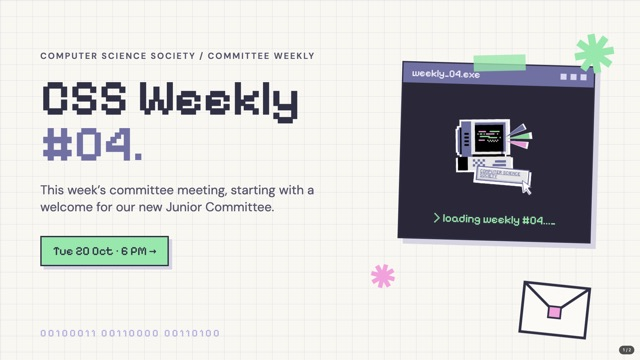
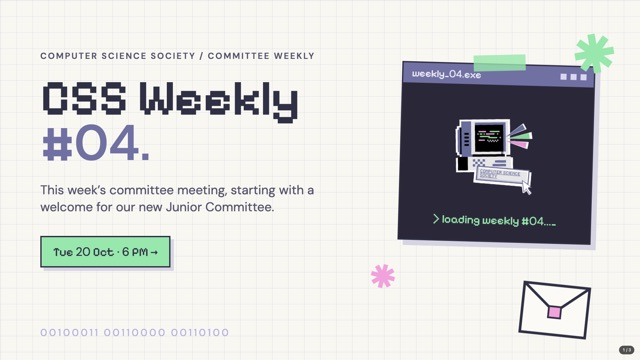
Add a CSS Jeopardy board as slide 3 of Weekly #04
Five categories (Computer Science, CSS, University of Nottingham, Tech & AI, Internet & Fun) by five tiers from Easy 100 to Expert 500. Clicking a square opens its question; Enter reveals the answer, 1-6 awards the points, 0 marks nobody and Esc goes back. Scores and used squares are saved in the browser. Digits in the #04 deck now use DM Sans so 200 and 500 don't read as 800.

diff --git a/weeklies/04-welcome-jc/index.html b/weeklies/04-welcome-jc/index.html
@@ -11,6 +11,9 @@
     @font-face{font-family:Pixelify;src:url('../../assets/fonts/pixelify-600.ttf') format('truetype');font-weight:600;font-display:swap}
     @font-face{font-family:DM;src:url('../../assets/fonts/dm-sans-400.ttf') format('truetype');font-weight:400;font-display:swap}
     @font-face{font-family:DM;src:url('../../assets/fonts/dm-sans-600.ttf') format('truetype');font-weight:600;font-display:swap}
+    /* Pixelify's digits are hard to read (2 looks like 8), so digits come from DM Sans, like the earlier decks. */
+    @font-face{font-family:ClearDigits;src:url('../../assets/fonts/dm-sans-400.ttf') format('truetype');font-weight:400;font-display:swap;unicode-range:U+0030-0039}
+    @font-face{font-family:ClearDigits;src:url('../../assets/fonts/dm-sans-600.ttf') format('truetype');font-weight:600;font-display:swap;unicode-range:U+0030-0039}
     :root{--paper:#f8f7f2;--card:#fbfaf6;--ink:#303044;--purple:#7070a2;--lavender:#b3aee0;--shadow:#d6d4e2;--screen:#2a2838;--mint:#98e7ad;--pink:#f1a1db;--muted:#55536a;--s:1;color-scheme:light}
     *{box-sizing:border-box}
     html,body{margin:0;width:100%;height:100%;overflow:hidden;background:#1d1c27}
@@ -18,15 +21,15 @@
     .stage{position:absolute;left:50%;top:50%;width:1920px;height:1080px;transform:translate(-50%,-50%) scale(var(--s))}
     .slide{position:absolute;inset:0;overflow:hidden;color:var(--ink);font:400 30px/1.4 DM,Arial,sans-serif;background-color:var(--paper);background-image:linear-gradient(rgba(112,112,162,.09) 2px,transparent 2px),linear-gradient(90deg,rgba(112,112,162,.09) 2px,transparent 2px);background-size:48px 48px}
     .slide[hidden]{display:none}
-    h1,h2{font-family:Pixelify,monospace;font-weight:600}
+    h1,h2{font-family:ClearDigits,Pixelify,monospace;font-weight:600}
     h1 em,h2 em{font-style:normal;color:var(--purple)}
     .eyebrow{font:600 28px DM,Arial,sans-serif;letter-spacing:5px;color:var(--purple)}
-    .footer{position:absolute;left:120px;right:120px;bottom:52px;display:flex;justify-content:space-between;font:400 24px Pixelify,monospace;letter-spacing:1px;color:var(--purple)}
-    .binary{position:absolute;left:120px;bottom:62px;font:400 30px Pixelify,monospace;letter-spacing:6px;color:var(--lavender)}
+    .footer{position:absolute;left:120px;right:120px;bottom:52px;display:flex;justify-content:space-between;font:400 24px ClearDigits,Pixelify,monospace;letter-spacing:1px;color:var(--purple)}
+    .binary{position:absolute;left:120px;bottom:62px;font:400 30px ClearDigits,Pixelify,monospace;letter-spacing:6px;color:var(--lavender)}
 
     /* Window chrome */
     .window{position:absolute;border:4px solid var(--ink);background:var(--screen);box-shadow:16px 16px 0 var(--shadow)}
-    .window-bar{display:flex;align-items:center;justify-content:space-between;height:60px;padding:0 22px 0 26px;background:var(--purple);color:#f2f0fb;font:400 30px Pixelify,monospace}
+    .window-bar{display:flex;align-items:center;justify-content:space-between;height:60px;padding:0 22px 0 26px;background:var(--purple);color:#f2f0fb;font:400 30px ClearDigits,Pixelify,monospace}
     .lights{display:flex;gap:12px}
     .lights i{display:block;width:18px;height:18px;background:#d9d6f2}
     .tape{position:absolute;top:-30px;width:156px;height:48px;background:rgba(152,231,173,.8);transform:rotate(-3deg);z-index:2}
@@ -52,13 +55,13 @@
     .cover-copy .eyebrow{font-size:26px;letter-spacing:4px;white-space:nowrap}
     .cover-copy h1{font-size:150px;line-height:.92;letter-spacing:-2px;margin:40px 0 44px}
     .cover-copy p{font-size:38px;line-height:1.35;color:var(--muted);max-width:900px}
-    .date-button{display:inline-block;margin-top:60px;padding:20px 34px;background:var(--mint);border:4px solid var(--ink);box-shadow:10px 10px 0 var(--shadow);font:400 36px Pixelify,monospace}
+    .date-button{display:inline-block;margin-top:60px;padding:20px 34px;background:var(--mint);border:4px solid var(--ink);box-shadow:10px 10px 0 var(--shadow);font:400 36px ClearDigits,Pixelify,monospace}
     .cover-window{left:1200px;top:190px;width:580px;transform:rotate(1.6deg)}
     .cover-window .tape{left:210px}
     .cover-window .body{display:flex;flex-direction:column;align-items:center;padding:20px 30px 40px}
     .cover-window img{display:block;width:440px;height:440px;margin:-40px 0 -36px;object-fit:contain;animation:float 4s ease-in-out infinite}
     @keyframes float{50%{transform:translateY(-10px) rotate(-1.5deg)}}
-    .cover-window .loading{font:400 34px Pixelify,monospace;color:var(--mint)}
+    .cover-window .loading{font:400 34px ClearDigits,Pixelify,monospace;color:var(--mint)}
     .cover-window .loading::after{content:"_";animation:blink 1s steps(1) infinite}
     @keyframes blink{50%{opacity:0}}
 
@@ -73,9 +76,46 @@
     .person .body{display:flex;flex-direction:column;align-items:center;padding:34px 20px 36px}
     .tile{display:grid;place-items:center;width:170px;height:170px;border:4px solid var(--ink);background:var(--c);box-shadow:8px 8px 0 var(--shadow);font:600 104px DM,Arial,sans-serif;line-height:1;color:var(--ink)}
     .person .name{margin-top:30px;font:600 56px DM,Arial,sans-serif;line-height:1;letter-spacing:-.5px;white-space:nowrap}
-    .person .tag{margin-top:14px;font:400 24px Pixelify,monospace;letter-spacing:2px;color:var(--purple)}
+    .person .tag{margin-top:14px;font:400 24px ClearDigits,Pixelify,monospace;letter-spacing:2px;color:var(--purple)}
     .bits{position:absolute;inset:0;pointer-events:none}
     .bits i{position:absolute;width:var(--z,18px);height:var(--z,18px);background:var(--c);box-shadow:4px 4px 0 var(--shadow)}
+
+    /* Slide 3: Jeopardy board */
+    .jp-head{position:absolute;left:120px;top:56px;right:120px;display:flex;align-items:flex-end;justify-content:space-between;gap:40px}
+    .jp-head h1{font-size:92px;line-height:1;margin-top:16px}
+    .jp-head .hint{font:400 24px ClearDigits,Pixelify,monospace;color:var(--purple);text-align:right}
+    .jp-board{position:absolute;left:120px;right:120px;top:240px;display:grid;grid-template-columns:170px repeat(5,1fr);grid-template-rows:96px repeat(5,104px);gap:14px}
+    .jp-cat{display:grid;place-items:center;padding:0 12px;border:4px solid var(--ink);background:var(--purple);box-shadow:8px 8px 0 var(--shadow);color:#f2f0fb;font:400 28px/1.1 ClearDigits,Pixelify,monospace;text-align:center}
+    .jp-tier{display:flex;flex-direction:column;justify-content:center;align-items:flex-end;padding-right:12px;font:400 26px/1.1 ClearDigits,Pixelify,monospace;color:var(--purple)}
+    .jp-tier b{font-weight:600;color:var(--ink);font-size:30px}
+    .jp-cell{border:4px solid var(--ink);background:var(--screen);box-shadow:8px 8px 0 var(--shadow);color:var(--mint);font:600 54px ClearDigits,Pixelify,monospace;cursor:pointer;transition:transform .12s,box-shadow .12s,background .12s}
+    .jp-cell:hover,.jp-cell:focus-visible{transform:translate(-3px,-3px);box-shadow:11px 11px 0 var(--shadow);background:#3a3750;outline:none}
+    .jp-cell.used{background:var(--card);color:var(--lavender);box-shadow:4px 4px 0 var(--shadow);text-decoration:line-through;text-decoration-thickness:4px}
+    .jp-scores{position:absolute;left:120px;right:120px;bottom:40px;display:flex;align-items:center;gap:16px}
+    .jp-team{display:flex;align-items:baseline;gap:14px;padding:10px 20px;border:4px solid var(--ink);background:var(--card);box-shadow:6px 6px 0 var(--shadow);font:400 26px ClearDigits,Pixelify,monospace}
+    .jp-team b{font-weight:600;font-size:34px;color:var(--purple)}
+    .jp-tool{margin-left:auto;display:flex;gap:12px}
+    .jp-tool button{padding:10px 18px;border:3px solid var(--ink);background:var(--card);box-shadow:5px 5px 0 var(--shadow);font:400 22px ClearDigits,Pixelify,monospace;color:var(--ink);cursor:pointer}
+        .jp-tool button:hover{background:var(--mint)}
+
+    .jp-card{position:absolute;inset:0;z-index:20;display:none;place-items:center;background:rgba(248,247,242,.82);backdrop-filter:blur(6px)}
+    .jp-card.open{display:grid}
+    .jp-card .window{position:relative;width:1480px;background:var(--card)}
+    .jp-card .body{padding:48px 64px 52px}
+    .jp-card .eyebrow{font-size:26px}
+    .jp-q{margin-top:26px;font:600 64px/1.2 DM,Arial,sans-serif;color:var(--ink);min-height:230px}
+    .jp-a{margin-top:28px;padding:22px 30px;border:4px solid var(--ink);background:var(--mint);box-shadow:8px 8px 0 var(--shadow);font:600 52px/1.2 DM,Arial,sans-serif;visibility:hidden}
+    .jp-card.revealed .jp-a{visibility:visible}
+    .jp-actions{margin-top:40px;display:flex;flex-wrap:wrap;align-items:center;gap:14px;font:400 26px ClearDigits,Pixelify,monospace;color:var(--purple)}
+    .jp-actions button{padding:14px 24px;border:4px solid var(--ink);background:var(--card);box-shadow:6px 6px 0 var(--shadow);font:400 28px ClearDigits,Pixelify,monospace;color:var(--ink);cursor:pointer}
+    .jp-actions button:hover{background:#e9e7f5}
+    .jp-actions .primary{background:var(--mint)}
+    .jp-actions .primary:hover{background:#b2efc2}
+    .jp-award{display:none;align-items:center;gap:14px;flex-wrap:wrap}
+    .jp-card.revealed .jp-award{display:flex}
+    .jp-card.revealed .jp-reveal{display:none}
+    .jp-back{margin-left:auto}
+    .jp-tool button:disabled{opacity:.4;cursor:default;background:var(--card)}
 
     .pager{position:fixed;right:16px;bottom:16px;padding:4px 10px;border-radius:999px;background:rgba(0,0,0,.7);color:#fff;font:12px/1.5 system-ui,sans-serif;font-variant-numeric:tabular-nums;opacity:0;transition:opacity .3s;pointer-events:none}
     .pager.on{opacity:1}
@@ -146,7 +186,34 @@
           <div class="body"><div class="tile" style="--c:#fbe7a6" aria-hidden="true">K</div><p class="name">Karon</p><p class="tag">JUNIOR COMMITTEE</p></div>
         </article>
       </div>
-      <div class="footer"><span>CSS / WEEKLY #04</span><span>02 / 02</span></div>
+      <div class="footer"><span>CSS / WEEKLY #04</span><span>02 / 03</span></div>
+    </section>
+
+    <section class="slide" aria-label="Slide 3: CSS Jeopardy" hidden>
+      <div class="jp-head">
+        <div>
+          <p class="eyebrow rise">GAME TIME / 5 CATEGORIES × 5 TIERS</p>
+          <h1 class="rise" style="--d:1">CSS <em>Jeopardy!</em></h1>
+        </div>
+        <p class="hint rise" style="--d:2">Pick a square · Enter shows the answer<br>1–6 gives the points · 0 if nobody · Esc goes back</p>
+      </div>
+      <div class="jp-board rise" style="--d:2" id="jp-board" data-no-nav></div>
+      <div class="jp-scores" id="jp-scores" data-no-nav></div>
+      <div class="jp-card" id="jp-card" role="dialog" aria-modal="true" aria-labelledby="jp-q" data-no-nav>
+        <div class="window">
+          <div class="window-bar"><span id="jp-file">question.exe</span><span class="lights" aria-hidden="true"><i></i><i></i><i></i></span></div>
+          <div class="body">
+            <p class="eyebrow" id="jp-meta"></p>
+            <p class="jp-q" id="jp-q"></p>
+            <p class="jp-a" id="jp-a"></p>
+            <div class="jp-actions">
+              <button class="primary jp-reveal" id="jp-reveal" type="button">Show answer (Enter)</button>
+              <div class="jp-award" id="jp-award"></div>
+              <button class="jp-back" id="jp-back" type="button">Back to board (Esc)</button>
+            </div>
+          </div>
+        </div>
+      </div>
     </section>
 
   </main>
@@ -201,7 +268,7 @@
         else if (k === 'p' || k === 'P') window.print();
       });
       document.addEventListener('click', function (e) {
-        if (e.button !== 0 || String(window.getSelection())) return;
+        if (e.button !== 0 || String(window.getSelection()) || e.target.closest('button, a, [data-no-nav]')) return;
         show(current + (e.clientX < window.innerWidth / 2 ? -1 : 1));
       });
       window.addEventListener('resize', fit);
@@ -213,6 +280,175 @@
       fit();
       var m = /^#(\d+)$/.exec(location.hash);
       show(m ? Number(m[1]) - 1 : 0);
+    })();
+  </script>
+  <script>
+    // CSS Jeopardy (slide 3): 5 categories × 5 tiers, team scores kept in this browser.
+    (function () {
+      var TIERS = [['Easy', 100], ['Medium', 200], ['Difficult', 300], ['Hard', 400], ['Expert', 500]];
+      var BOARD = [
+        { cat: 'Computer Science', qs: [
+          ['What does CPU stand for?', 'Central Processing Unit'],
+          ['What is 101 in binary, as a normal (decimal) number?', '5'],
+          ['Which data structure works “last in, first out”?', 'A stack'],
+          ['What is the time complexity of binary search?', 'O(log n)'],
+          ['Who is called the first computer programmer, for her notes on Babbage’s Analytical Engine?', 'Ada Lovelace'],
+        ] },
+        { cat: 'CSS', qs: [
+          ['What does CSS stand for?', 'Computer Science Society'],
+          ['Finish the CSS motto: “We don’t code, …”', '“… we build”'],
+          ['Which country is the CSS president from?', 'South Korea'],
+          ['What was CSS’s first-ever open hackathon called?', 'NottsHack’26'],
+          ['On which day of the week does the CSS committee hold its weekly meeting?', 'Tuesday (6 PM)'],
+        ] },
+        { cat: 'University of Nottingham', qs: [
+          ['The University of Nottingham’s home campus is in which country?', 'The United Kingdom (England)'],
+          ['Our Malaysia campus is in which town in Selangor?', 'Semenyih'],
+          ['Besides the UK and Malaysia, the University of Nottingham has a campus in which country?', 'China (Ningbo)'],
+          ['UNM was the first university from which country to open a campus in Malaysia?', 'The UK (it was the first British university there)'],
+          ['What is the University of Nottingham’s Latin motto?', '“Sapientia urbs conditur” (A city is built on wisdom)'],
+        ] },
+        { cat: 'Tech & AI', qs: [
+          ['What does “AI” stand for?', 'Artificial Intelligence'],
+          ['What does “GPT” in ChatGPT stand for?', 'Generative Pre-trained Transformer'],
+          ['Which company makes the AI assistant Claude?', 'Anthropic'],
+          ['What is the latest AI model Anthropic has released?', 'Claude Sonnet 5.5 (28 Sep 2026). Check anthropic.com/news on the day; accept any Claude 5.5 model'],
+          ['Which 1950 test asks whether a machine can pass as a human in conversation?', 'The Turing test (Alan Turing’s “imitation game”)'],
+        ] },
+        { cat: 'Internet & Fun', qs: [
+          ['Ctrl + C copies. What does Ctrl + V do?', 'Paste'],
+          ['What’s the classic error code when a web page can’t be found?', '404'],
+          ['The Python language isn’t named after the snake. What is it named after?', 'Monty Python, the comedy group'],
+          ['In 1947, engineers found a real “bug” stuck inside the Harvard Mark II computer. What was it?', 'A moth'],
+          ['The first message sent over ARPANET in 1969 was meant to be “LOGIN”. What actually arrived before the system crashed?', '“LO”'],
+        ] },
+      ];
+      var STORE = 'cssweekly-04-jeopardy';
+      var board = document.getElementById('jp-board');
+      var scoresEl = document.getElementById('jp-scores');
+      var card = document.getElementById('jp-card');
+      var state = { used: {}, scores: [0, 0, 0, 0] };
+      var open = null; // { c, r }
+
+      try { var saved = JSON.parse(localStorage.getItem(STORE)); if (saved && saved.scores) state = saved; } catch (e) {}
+      function save() { try { localStorage.setItem(STORE, JSON.stringify(state)); } catch (e) {} }
+
+      function el(tag, cls, text) { var n = document.createElement(tag); if (cls) n.className = cls; if (text != null) n.textContent = text; return n; }
+
+      function renderBoard() {
+        board.innerHTML = '';
+        board.appendChild(el('div'));
+        BOARD.forEach(function (col) { board.appendChild(el('div', 'jp-cat', col.cat)); });
+        TIERS.forEach(function (tier, r) {
+          var label = el('div', 'jp-tier');
+          label.appendChild(el('b', null, tier[0]));
+          label.appendChild(document.createTextNode(String(tier[1])));
+          board.appendChild(label);
+          BOARD.forEach(function (col, c) {
+            var b = el('button', 'jp-cell' + (state.used[c + '-' + r] ? ' used' : ''), String(tier[1]));
+            b.type = 'button';
+            b.setAttribute('aria-label', col.cat + ', ' + tier[0] + ', ' + tier[1] + ' points');
+            b.addEventListener('click', function (e) { e.stopPropagation(); openQuestion(c, r); });
+            board.appendChild(b);
+          });
+        });
+      }
+
+      function renderScores() {
+        scoresEl.innerHTML = '';
+        state.scores.forEach(function (score, i) {
+          var t = el('div', 'jp-team');
+          t.appendChild(document.createTextNode('Team ' + (i + 1)));
+          t.appendChild(el('b', null, String(score)));
+          scoresEl.appendChild(t);
+        });
+        var tools = el('div', 'jp-tool');
+        var add = el('button', null, '+ team');
+        add.type = 'button';
+        add.disabled = state.scores.length >= 6;
+        add.addEventListener('click', function (e) {
+          e.stopPropagation();
+          if (state.scores.length < 6) { state.scores.push(0); save(); renderScores(); }
+        });
+        var remove = el('button', null, '− team');
+        remove.type = 'button';
+        remove.disabled = state.scores.length <= 2;
+        remove.addEventListener('click', function (e) {
+          e.stopPropagation();
+          if (state.scores.length > 2) { state.scores.pop(); save(); renderScores(); }
+        });
+        var reset = el('button', null, 'Reset game');
+        reset.type = 'button';
+        reset.addEventListener('click', function (e) {
+          e.stopPropagation();
+          if (!window.confirm('Clear the board and all scores?')) return;
+          state = { used: {}, scores: state.scores.map(function () { return 0; }) };
+          save(); renderBoard(); renderScores();
+        });
+        tools.appendChild(add);
+        tools.appendChild(remove);
+        tools.appendChild(reset);
+        scoresEl.appendChild(tools);
+      }
+
+      function openQuestion(c, r) {
+        open = { c: c, r: r };
+        var col = BOARD[c], tier = TIERS[r], qa = col.qs[r];
+        document.getElementById('jp-file').textContent = col.cat.toLowerCase().replace(/[^a-z]+/g, '_') + '_' + tier[1] + '.exe';
+        document.getElementById('jp-meta').textContent = col.cat.toUpperCase() + ' · ' + tier[0].toUpperCase() + ' · ' + tier[1] + ' POINTS';
+        document.getElementById('jp-q').textContent = qa[0];
+        document.getElementById('jp-a').textContent = qa[1];
+        var award = document.getElementById('jp-award');
+        award.innerHTML = '';
+        award.appendChild(document.createTextNode('Points to:'));
+        state.scores.forEach(function (_, i) {
+          var b = el('button', null, 'Team ' + (i + 1));
+          b.type = 'button';
+          b.addEventListener('click', function (e) { e.stopPropagation(); finish(i); });
+          award.appendChild(b);
+        });
+        var none = el('button', null, 'Nobody');
+        none.type = 'button';
+        none.addEventListener('click', function (e) { e.stopPropagation(); finish(-1); });
+        award.appendChild(none);
+        card.classList.remove('revealed');
+        card.classList.add('open');
+        document.getElementById('jp-reveal').focus();
+      }
+
+      function reveal() { if (open) card.classList.add('revealed'); }
+
+      function finish(team) {
+        if (!open) return;
+        if (team >= 0) state.scores[team] += TIERS[open.r][1];
+        state.used[open.c + '-' + open.r] = true;
+        save();
+        close();
+        renderBoard();
+        renderScores();
+      }
+
+      function close() { open = null; card.classList.remove('open', 'revealed'); }
+
+      document.getElementById('jp-reveal').addEventListener('click', function (e) { e.stopPropagation(); reveal(); });
+      document.getElementById('jp-back').addEventListener('click', function (e) { e.stopPropagation(); close(); });
+      card.addEventListener('click', function (e) { e.stopPropagation(); });
+
+      // While a question is open, keys drive the question instead of changing slides.
+      window.addEventListener('keydown', function (e) {
+        if (!open) return;
+        e.stopPropagation();
+        var k = e.key;
+        if (k === 'Escape') { e.preventDefault(); close(); }
+        else if (k === 'Enter' || k === ' ') { e.preventDefault(); if (!card.classList.contains('revealed')) reveal(); }
+        else if (card.classList.contains('revealed') && /^[0-6]$/.test(k)) {
+          var n = Number(k);
+          if (n === 0) finish(-1); else if (n <= state.scores.length) finish(n - 1);
+        }
+      }, true);
+
+      renderBoard();
+      renderScores();
     })();
   </script>
 </body>

diff --git a/index.html b/index.html
@@ -41,11 +41,11 @@
             </div>
             <a class="button" href="weeklies/04-welcome-jc/">Open deck →</a>
           </div>
-          <p class="summary">This week’s weekly opens by welcoming the new Junior Committee to the CSS team.</p>
+          <p class="summary">This week’s weekly welcomes the new Junior Committee to the CSS team, then plays a round of CSS Jeopardy.</p>
           <h3>What we covered</h3>
-          <ul class="covered"><li>Welcome Junior Committees! Radzi, Thu Thu, Zachary and Karon</li></ul>
-          <h3>All 2 slides</h3>
-          <ol class="thumbs"><li><a class="thumb" href="weeklies/04-welcome-jc/#1"><img src="weeklies/thumbs/04-1.jpg" alt="" loading="lazy" width="640" height="360"><span class="thumb-caption"><b>01</b> CSS Weekly #04</span></a></li><li><a class="thumb" href="weeklies/04-welcome-jc/#2"><img src="weeklies/thumbs/04-2.jpg" alt="" loading="lazy" width="640" height="360"><span class="thumb-caption"><b>02</b> Welcome Junior Committees!</span></a></li></ol>
+          <ul class="covered"><li>Welcome Junior Committees! Radzi, Thu Thu, Zachary and Karon</li><li>CSS Jeopardy: 25 questions across Computer Science, CSS, University of Nottingham, Tech &amp; AI and Internet &amp; Fun</li></ul>
+          <h3>All 3 slides</h3>
+          <ol class="thumbs"><li><a class="thumb" href="weeklies/04-welcome-jc/#1"><img src="weeklies/thumbs/04-1.jpg" alt="" loading="lazy" width="640" height="360"><span class="thumb-caption"><b>01</b> CSS Weekly #04</span></a></li><li><a class="thumb" href="weeklies/04-welcome-jc/#2"><img src="weeklies/thumbs/04-2.jpg" alt="" loading="lazy" width="640" height="360"><span class="thumb-caption"><b>02</b> Welcome Junior Committees!</span></a></li><li><a class="thumb" href="weeklies/04-welcome-jc/#3"><img src="weeklies/thumbs/04-3.jpg" alt="" loading="lazy" width="640" height="360"><span class="thumb-caption"><b>03</b> CSS Jeopardy</span></a></li></ol>
         </div>
       </div>
     </article>

diff --git a/README.md b/README.md
@@ -4,7 +4,7 @@ Slides from every Computer Science Society committee weekly. The homepage (`inde
 
 | # | Date | Weekly | Deck |
 |---|------|--------|------|
-| 04 | Tue 20 Oct 2026 | Welcome, Junior Committee (2 slides) | [`weeklies/04-welcome-jc/`](weeklies/04-welcome-jc/) |
+| 04 | Tue 20 Oct 2026 | Welcome, Junior Committee, plus CSS Jeopardy (3 slides) | [`weeklies/04-welcome-jc/`](weeklies/04-welcome-jc/) |
 | 03 | Tue 13 Oct 2026 | Induction committee briefing (8 slides) | [`weeklies/03-induction/`](weeklies/03-induction/) |
 | 02 | Mon 5 Oct 2026 | CS Fair briefing (6 slides). Held a day early because the fair took Tuesday | [`weeklies/02-cs-fair/`](weeklies/02-cs-fair/) |
 | 01 | Wed 30 Sep 2026 | First committee meeting (7 slides) | [`weeklies/01-first-meeting/`](weeklies/01-first-meeting/) |
@@ -17,6 +17,8 @@ Regular slot: Tuesdays at 6 PM, under an hour.
 - Home and End: first and last slide
 - F: fullscreen
 - P: print every slide (weeklies 01 and 02)
+
+Weekly 04 slide 3 is CSS Jeopardy: click a square to open its question. Enter shows the answer, 1–6 gives the points to that team, 0 if nobody got it, and Esc goes back to the board. Scores are saved in the browser until you click Reset game.
 
 Weekly 03 has a 10-minute countdown on slide 4, before Round 1. Click Press start or press S to start or pause; M mutes and R resets. It plays Space Walk by Silent Partner from the YouTube Audio Library (no attribution required), embedded in the deck, and pauses when you leave the slide.
 
